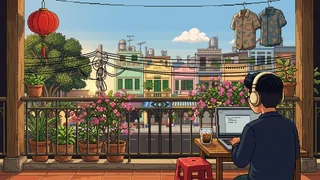
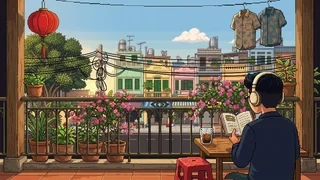
changed: /chill thank-you board as a centered popup, tip jar by the book, Balcony reader, cleaner Night desk character
- Thank-you board opens as a centered popup over a dimmed backdrop on
  desktop (no longer covers the music dock); click outside or Esc closes,
  Tab stays inside. Phones keep the bottom sheet
- Tip jar moves next to the notebook in Café window (between phin and
  notebook) and Night desk (front of the desk under the lamp); on Balcony it
  sits on the small table beside the iced coffee
- Balcony character now reads a book instead of using a laptop: new Nano
  Banana 2 still + Kling O1 Pro 10s loop (reads, turns a page, sips the iced
  coffee and puts it back), played like the café; thumbnail updated, laptop
  glow is optional per room and off here, old pose atlas removed
- Night desk sprite sheets cleaned: green-screen fringe around hair and
  shoulders removed, mask edge blended into the room so the white seam on
  the laptop screen is gone
- Character sheets no longer store colour under transparent pixels:
  Balcony 856/527 KB, Night desk 1.0 MB/687 KB

Changed region(s): [[0.6562, 0.5833, 0.8125, 0.8611], [0.6875, 0.9444, 0.7812, 1.0], [0.5625, 0.5278, 0.5938, 0.5556]]

diff --git a/src/components/chill/themes.ts b/src/components/chill/themes.ts
@@ -6,8 +6,7 @@
 //
 // - café: ảnh nội thất 640×360 + người ngồi là sprite sheet cắt từ video (scene.ts).
 // - desk: ảnh AI 1280×720 (Nano Banana 2) + người ngồi là video loop Kling như quán.
-// - balcony: ảnh AI 1280×720 đã có sẵn người ngồi; tư thế uống cắt từ bản biến thể
-//   của chính ảnh đó, gõ phím / thở làm bằng code.
+// - balcony: ảnh AI 1280×720 (người đọc sách, không laptop) + video loop Kling như quán.
 
 export type ThemeId = 'cafe' | 'balcony' | 'desk'
 
@@ -72,7 +71,8 @@ export type Theme = {
   lamp: Pt
   // Đèn luôn sáng (đèn bàn, đèn lồng) hay chỉ bật khi chiều/tối/mưa (đèn thả của quán)
   lampAlways: boolean
-  laptop: Pt
+  // Quầng sáng màn laptop (null = không có laptop)
+  laptop: Pt | null
   headphones: Pt
 }
 
@@ -101,7 +101,8 @@ export const THEMES: Theme[] = [
     screen: true,
     cat: {x: 112, y: 296},
     notebook: {x: 324, y: 264, w: 102, h: 44},
-    tipJar: {x: 290, y: 292, cupDx: 22},
+    // Cạnh trái cuốn sổ, ly của người mời đứng giữa phin và lọ
+    tipJar: {x: 310, y: 294, cupDx: -22},
     steam: {x: 127, y: 113},
     lamp: {x: 63, y: 42},
     lampAlways: false,
@@ -118,23 +119,24 @@ export const THEMES: Theme[] = [
     view: {x: 0, y: 0, w: 320, h: 156},
     panes: [],
     streetDy: 18,
+    // Video loop Kling (O1 Pro, 10s): đọc sách, lật trang, cầm ly cà phê đá uống rồi đặt lại
     character: {
-      kind: 'frames',
-      src: '/chill/scenes/room-balcony-pose.webp',
+      kind: 'video',
       at: {x: 371, y: 118, w: 269, h: 239},
-      cells: {base: [0, 0], typing: [538, 0], sip: [1076, 0], mask: [1614, 0]},
-      hands: {x: 458, y: 271, w: 28, h: 17},
-      shoulders: 0.55,
+      hi: {src: '/chill/scenes/room-balcony-loop@2x.webp', scale: 2, cols: 10, frames: 81, fps: 8},
+      lo: {src: '/chill/scenes/room-balcony-loop.webp', scale: 1, cols: 12, frames: 121, fps: 12},
+      duration: 121 / 12,
+      sip: [1.1, 9.1],
     },
     screen: false,
     cat: {x: 60, y: 197},
     notebook: null,
-    // Trên mặt lan can (ghế đỏ dưới sàn bị dock nhạc che)
-    tipJar: {x: 352, y: 197, cupDx: -22},
+    // Trên bàn nhỏ, giữa ly cà phê đá và quyển sách; ly của người mời đứng mép trái bàn
+    tipJar: {x: 440, y: 293, cupDx: -46},
     steam: null,
     lamp: {x: 44, y: 28},
     lampAlways: false,
-    laptop: {x: 233, y: 120},
+    laptop: null,
     headphones: {x: 256, y: 80},
   },
   {
@@ -162,7 +164,8 @@ export const THEMES: Theme[] = [
     screen: false,
     cat: {x: 270, y: 283},
     notebook: {x: 118, y: 258, w: 92, h: 28},
-    tipJar: {x: 392, y: 296, cupDx: 22},
+    // Mép trước bàn, giữa sổ mở và cốc cà phê nóng — ngay dưới ánh đèn bàn
+    tipJar: {x: 222, y: 304, cupDx: 24},
     steam: {x: 124, y: 126},
     lamp: {x: 33, y: 106},
     lampAlways: true,

diff --git a/src/components/chill/SupporterBoard.tsx b/src/components/chill/SupporterBoard.tsx
@@ -1,6 +1,8 @@
 'use client'
 
 // Bảng cảm ơn trang /chill — tấm bảng gỗ ghim giấy note, mở khi bấm lọ tip trên bàn.
+// Popup giữa màn (desktop) / sheet từ dưới lên (điện thoại), có nền tối phía sau —
+// không đè lên dock nhạc như khi còn neo ở góc trái dưới.
 //
 // Dữ liệu từ GET /api/chill-support: chỉ người Bin đã tick "Đã nhận tiền" trong
 // Studio VÀ tự chọn hiện tên. Người không muốn hiện tên vẫn được đếm vào lọ tip
@@ -60,8 +62,23 @@ export function SupporterBoard({
       role="dialog"
       aria-label="Thank-you board"
       inert={!open}
-      className={`absolute inset-x-0 bottom-0 z-40 flex max-h-[85dvh] flex-col overflow-hidden rounded-t-3xl border-2 border-[#3a2414] bg-[#5e3d22] shadow-[0_30px_80px_-20px_rgba(0,0,0,0.9)] transition-all duration-300 ease-out lg:inset-x-auto lg:bottom-5 lg:left-5 lg:max-h-[min(640px,calc(100dvh-96px))] lg:w-[380px] lg:rounded-2xl ${
-        open ? 'translate-y-0 opacity-100' : 'pointer-events-none translate-y-6 opacity-0'
+      aria-modal="true"
+      onKeyDown={(e) => {
+        // Giữ Tab trong popup khi đang mở
+        if (e.key !== 'Tab') return
+        const items = e.currentTarget.querySelectorAll<HTMLElement>('button, [href], [tabindex]:not([tabindex="-1"])')
+        const first = items[0]
+        const last = items[items.length - 1]
+        if (e.shiftKey && document.activeElement === first) {
+          e.preventDefault()
+          last?.focus()
+        } else if (!e.shiftKey && document.activeElement === last) {
+          e.preventDefault()
+          first?.focus()
+        }
+      }}
+      className={`absolute inset-x-0 bottom-0 z-40 flex max-h-[85dvh] flex-col overflow-hidden rounded-t-3xl border-2 border-[#3a2414] bg-[#5e3d22] shadow-[0_30px_80px_-20px_rgba(0,0,0,0.9)] transition-all duration-300 ease-out lg:inset-x-auto lg:bottom-auto lg:left-1/2 lg:top-1/2 lg:max-h-[min(640px,calc(100dvh-160px))] lg:w-[420px] lg:-translate-x-1/2 lg:-translate-y-1/2 lg:rounded-2xl ${
+        open ? 'translate-y-0 opacity-100 lg:scale-100' : 'pointer-events-none translate-y-6 opacity-0 lg:scale-95'
       }`}
       style={{
         // Vân ván gỗ ghép ngang

diff --git a/src/components/chill/ChillRoom.tsx b/src/components/chill/ChillRoom.tsx
@@ -776,6 +776,17 @@ export function ChillRoom({tracks = TRACKS, destinations = DESTINATIONS}: {track
         </div>
       </div>
 
+      {/* Nền tối sau bảng cảm ơn — bấm ra ngoài để đóng */}
+      <button
+        type="button"
+        aria-label="Close thank-you board"
+        tabIndex={-1}
+        onClick={() => setBoardOpen(false)}
+        className={`absolute inset-0 z-30 cursor-default bg-black/55 backdrop-blur-[2px] transition-opacity duration-300 ${
+          boardOpen ? 'opacity-100' : 'pointer-events-none opacity-0'
+        }`}
+      />
+
       {/* Bấm ra ngoài để đóng bảng cài đặt */}
       {panelOpen && (
         <button type="button" aria-label="Close settings" onClick={() => setPanelOpen(false)} className="absolute inset-0 z-10 cursor-default" />
@@ -784,7 +795,7 @@ export function ChillRoom({tracks = TRACKS, destinations = DESTINATIONS}: {track
       {/* Dock nhạc nổi phía dưới */}
       <div
         className={`absolute inset-x-0 bottom-0 z-20 flex justify-center px-3 pb-[max(0.75rem,env(safe-area-inset-bottom))] transition-[padding] duration-300 sm:px-5 sm:pb-5 ${
-          panelOpen ? 'sm:pr-[436px]' : wishOpen ? 'lg:pr-[450px]' : boardOpen ? 'lg:pl-[420px]' : ''
+          panelOpen ? 'sm:pr-[436px]' : wishOpen ? 'lg:pr-[450px]' : ''
         } ${fade}`}
       >
         <div

diff --git a/src/components/chill/scene.ts b/src/components/chill/scene.ts
@@ -1194,12 +1194,14 @@ export class ChillScene {
       // Bóng đèn thả của quán
       if (this.theme.id === 'cafe') this.rect(lamp.x - 3, lamp.y - 1, 7, 2, 'rgba(255,231,168,0.9)')
     }
-    const screen = this.time === 'night' ? 0.28 : 0.1
-    const g = ctx.createRadialGradient(laptop.x, laptop.y, 1, laptop.x, laptop.y, 40)
-    g.addColorStop(0, `rgba(130,175,255,${screen})`)
-    g.addColorStop(1, 'rgba(130,175,255,0)')
-    ctx.fillStyle = g
-    ctx.fillRect(laptop.x - 40, laptop.y - 40, 80, 80)
+    if (laptop) {
+      const screen = this.time === 'night' ? 0.28 : 0.1
+      const g = ctx.createRadialGradient(laptop.x, laptop.y, 1, laptop.x, laptop.y, 40)
+      g.addColorStop(0, `rgba(130,175,255,${screen})`)
+      g.addColorStop(1, 'rgba(130,175,255,0)')
+      ctx.fillStyle = g
+      ctx.fillRect(laptop.x - 40, laptop.y - 40, 80, 80)
+    }
     ctx.restore()
 
     const v = ctx.createRadialGradient(SCENE_W / 2, SCENE_H / 2, 90, SCENE_W / 2, SCENE_H / 2, 200)
